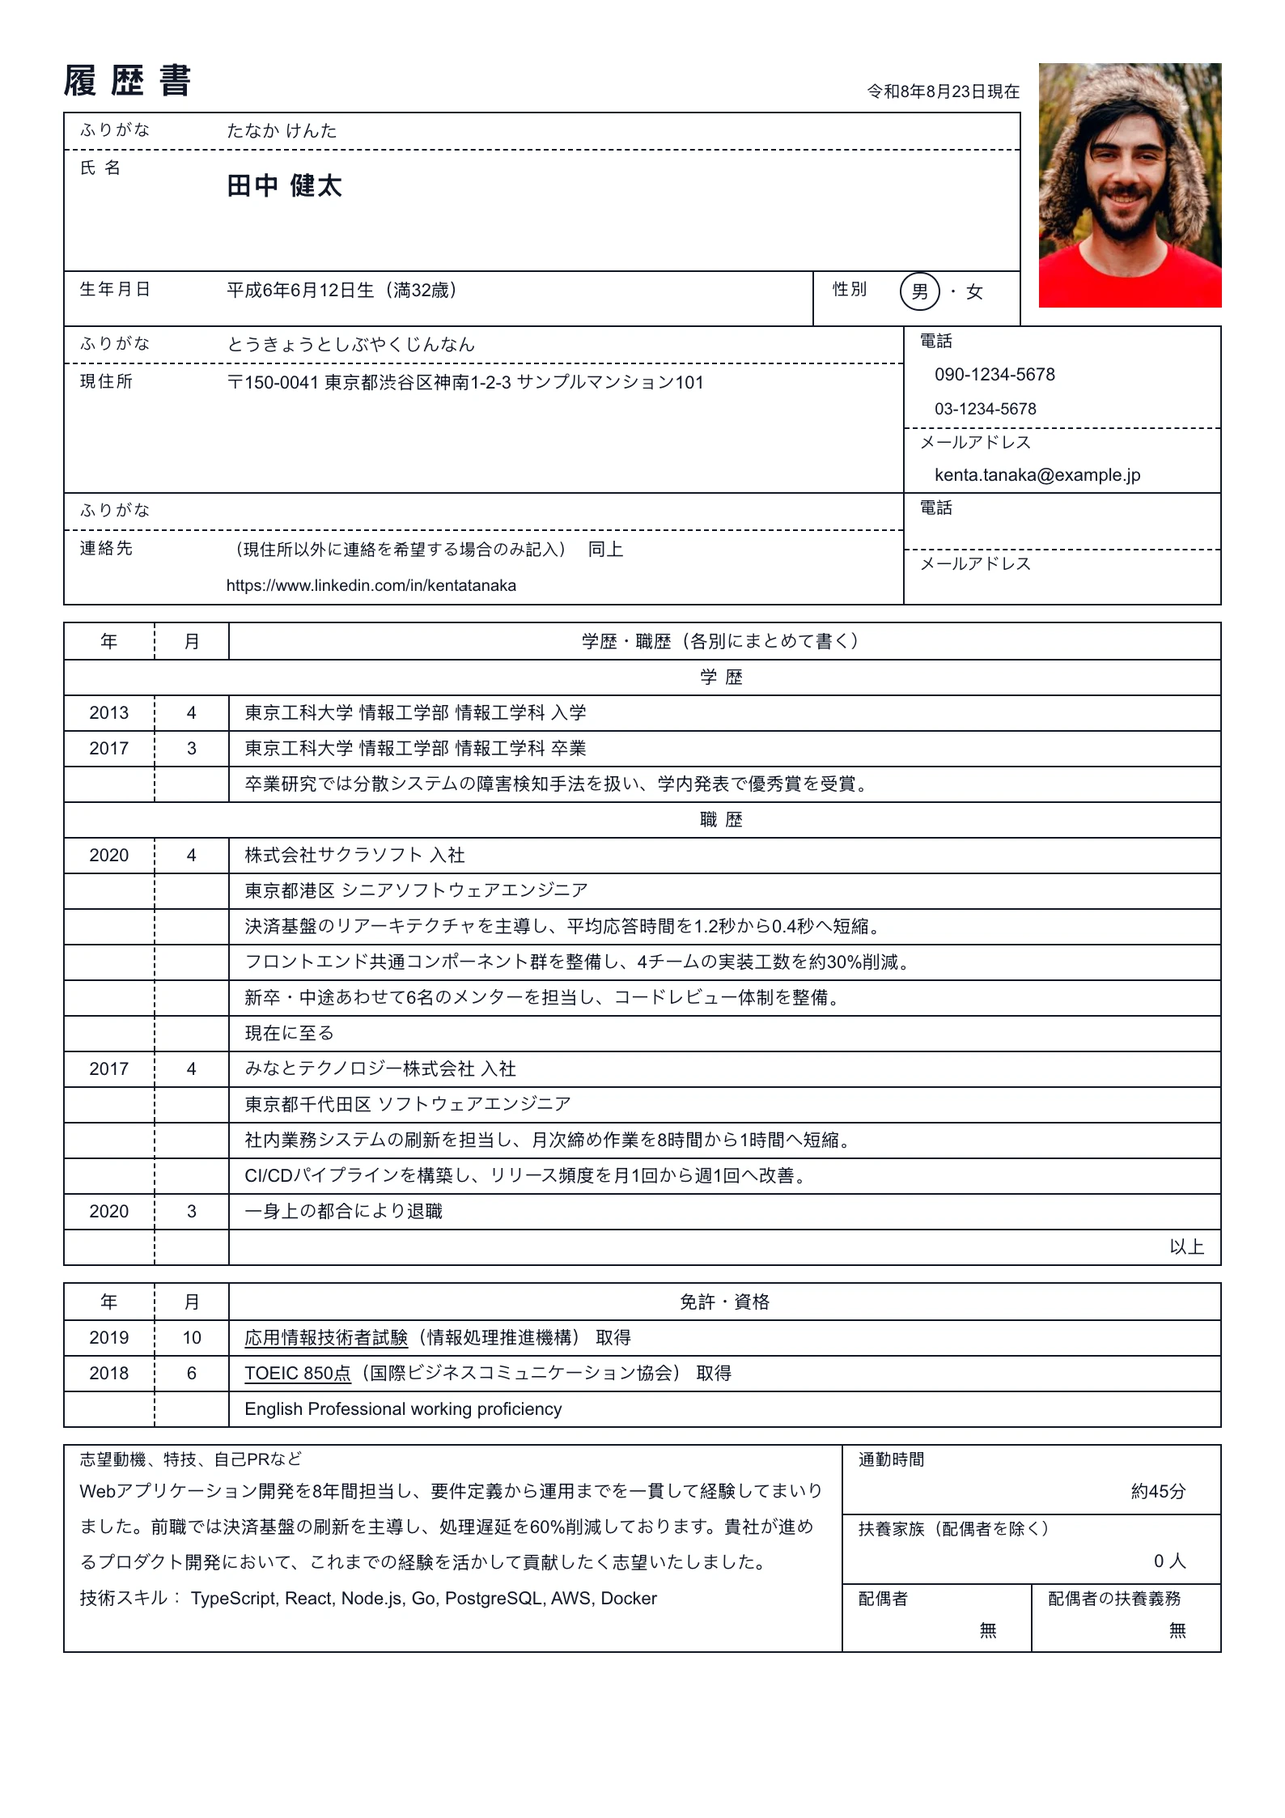
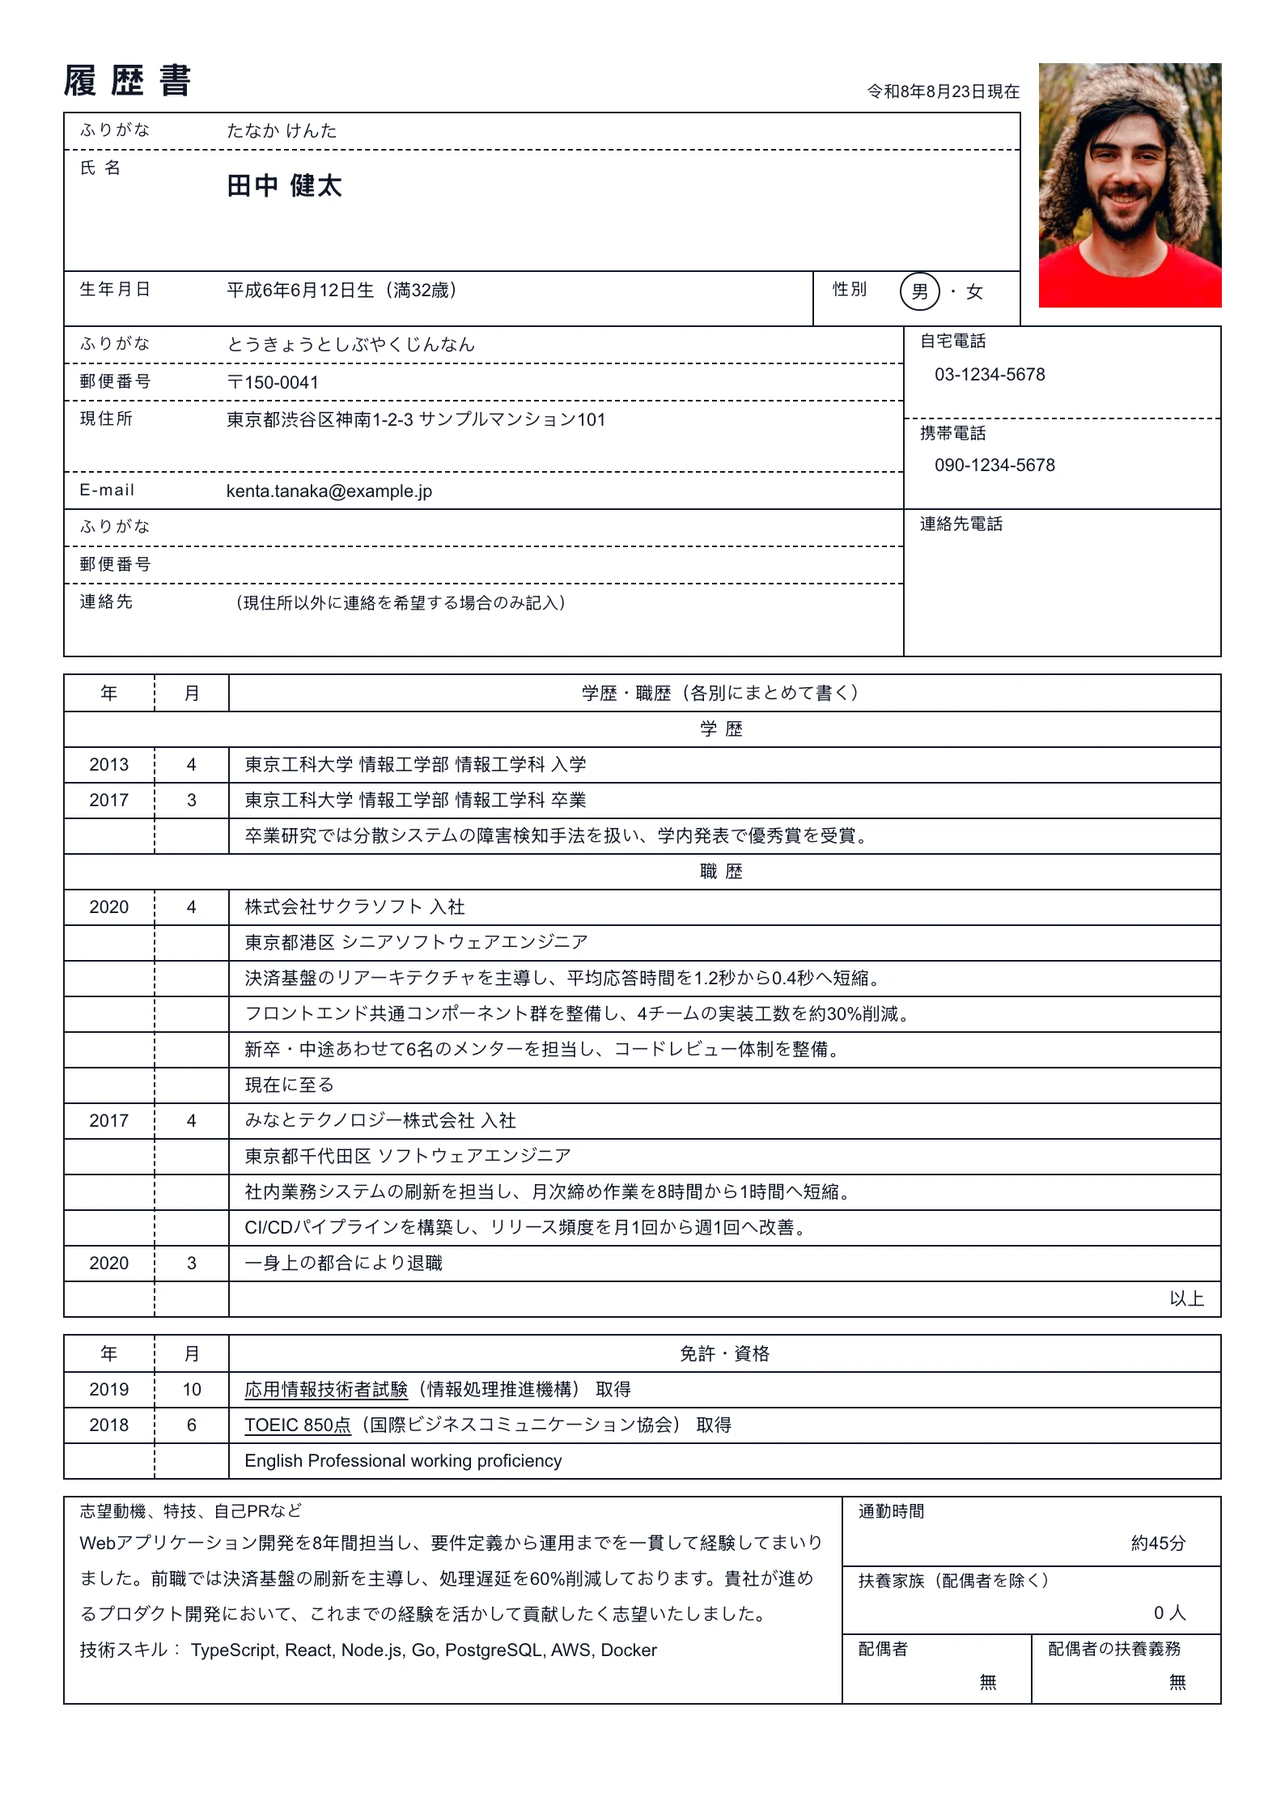
Match the rirekisho fields to the printed sheet, box for box
The field set was right — it is what rirekisho-online.com asks for — but the
labels were mine rather than the form's, which is why "Second address" read as
invented. It is 連絡先: the address post should go to when that is not 現住所,
and the sheet has a kana line, a postal code and a phone for it. Renamed to the
form's own words, and the postal code it was missing is added.

The 現住所 block now prints as the sheet does — ふりがな / 郵便番号 / 現住所 /
E-mail down the left, 自宅電話 and 携帯電話 down the right — instead of folding
the postal code into the address line and both numbers under one caption.
Profile links are no longer printed at all: the form has no row for a URL, and
the 連絡先 box is an address, not a place to park one.

性別, 配偶者 and 配偶者の扶養義務 are selects now (男/女, 有/無). They take one
of two answers, so a text box invited "male" or "yes" into a form that prints
neither.

diff --git a/src/features/resume-editor/preview/layouts/rirekisho/header.tsx b/src/features/resume-editor/preview/layouts/rirekisho/header.tsx
@@ -2,7 +2,6 @@ import { differenceInYears, isValid, parseISO } from "date-fns";
 import type { ReactNode } from "react";
 
 import { parseDayMonthYear } from "@/features/resume-editor/domain/month-year";
-import { compactJoin } from "@/features/resume-editor/preview/helpers/string";
 import { WrapOnSpace } from "@/features/resume-editor/preview/kit/wrap-on-space";
 import type { LayoutHeaderProps } from "@/features/resume-editor/preview/layout-types";
 import { cn } from "@/lib/utils";
@@ -44,6 +43,8 @@ function birthLine(birthDate: string | undefined, asOf: Date) {
   const age = differenceInYears(asOf, parsed);
   return age >= 0 ? `${born}生（満${age}歳）` : `${born}生`;
 }
+
+const postal = (value: string | undefined) => (value ? `〒${value}` : "");
 
 /** One ruled line of the identity block: a label cell, then its value. */
 function Line({
@@ -112,11 +113,6 @@ export function RirekishoHeader({ context }: LayoutHeaderProps) {
   // panel; absent on a draft that has never been on this layout.
   const extras = profile.extras ?? {};
   const asOf = parseISO(updatedAt);
-  const address = compactJoin([
-    extras.postalCode ? `〒${extras.postalCode}` : "",
-    profile.location,
-  ]);
-  const links = context.contactItems.filter((item) => item.kind === "link");
 
   return (
     <header className={`${styles.header} layout-header`} data-layout="rirekisho">
@@ -182,50 +178,50 @@ export function RirekishoHeader({ context }: LayoutHeaderProps) {
         </div>
       </div>
 
+      {/* 現住所: kana, postal code, address and e-mail down the left; the two
+          phone numbers the form asks for down the right. */}
       <div className="rirekisho-contact">
         <div className="rirekisho-contact-main">
           <Line label="ふりがな" className="rirekisho-line-dashed">
             {extras.addressReading}
           </Line>
-          <Line label="現住所" className="rirekisho-address-line">
-            {address}
+          <Line label="郵便番号" className="rirekisho-line-dashed">
+            {postal(extras.postalCode)}
           </Line>
+          <Line
+            label="現住所"
+            className="rirekisho-line-dashed rirekisho-address-line"
+          >
+            {profile.location}
+          </Line>
+          <Line label="E-mail">{profile.email}</Line>
         </div>
         <div className="rirekisho-contact-side">
-          <Stacked label="電話" className="rirekisho-line-dashed">
-            {profile.phone}
-            {extras.homePhone ? (
-              <span className="rirekisho-link">{extras.homePhone}</span>
-            ) : null}
+          <Stacked label="自宅電話" className="rirekisho-line-dashed">
+            {extras.homePhone}
           </Stacked>
-          <Stacked label="メールアドレス">{profile.email}</Stacked>
+          <Stacked label="携帯電話">{profile.phone}</Stacked>
         </div>
       </div>
 
+      {/* 連絡先 — filled in only when post should go somewhere other than 現住所. */}
       <div className="rirekisho-contact">
         <div className="rirekisho-contact-main">
           <Line label="ふりがな" className="rirekisho-line-dashed">
             {extras.contactAddressReading}
+          </Line>
+          <Line label="郵便番号" className="rirekisho-line-dashed">
+            {postal(extras.contactPostalCode)}
           </Line>
           <Line label="連絡先" className="rirekisho-address-line">
             <span className="rirekisho-note">
               （現住所以外に連絡を希望する場合のみ記入）
             </span>
             {extras.contactAddress}
-            {/* The form has no row for a portfolio or profile URL, and this box
-                is the one place a second point of contact belongs. */}
-            {links.map((item) => (
-              <span key={item.value} className="rirekisho-link">
-                {item.value}
-              </span>
-            ))}
           </Line>
         </div>
         <div className="rirekisho-contact-side">
-          <Stacked label="電話" className="rirekisho-line-dashed">
-            {extras.contactPhone}
-          </Stacked>
-          <Stacked label="メールアドレス" />
+          <Stacked label="連絡先電話">{extras.contactPhone}</Stacked>
         </div>
       </div>
     </header>

diff --git a/src/features/resume-editor/domain/presentation/layout-section-rules.ts b/src/features/resume-editor/domain/presentation/layout-section-rules.ts
@@ -31,7 +31,9 @@ export type LayoutExtraField = {
    *  sample value in one box and a label in the next is what made the pair of
    *  有 / 無 fields indistinguishable. */
   label: string;
-  type?: "text" | "date" | "textarea";
+  type?: "text" | "date" | "select" | "textarea";
+  /** The answers, for `type: "select"`. A blank option is added for clearing. */
+  options?: ReadonlyArray<string>;
   /** A leading glyph, where one reinforces scanning; the date picker draws its
    *  own calendar. */
   icon?: LayoutExtraFieldIcon;
@@ -84,9 +86,12 @@ const layoutSectionRules: Partial<Record<PdfLayoutId, LayoutSectionRules>> = {
       description:
         "The boxes the 履歴書 form prints that a resume has no field for. Every one is optional; blank prints an empty box, exactly like the paper form.",
       fields: [
+        // The 履歴書's own boxes, in the order the sheet prints them. The
+        // address, e-mail and mobile number are the Profile's — only what the
+        // form asks for beyond a résumé is here.
         {
           key: "nameReading",
-          label: "Name reading (ふりがな)",
+          label: "Name in kana (ふりがな)",
           icon: "reading",
           fullWidth: true,
         },
@@ -96,7 +101,19 @@ const layoutSectionRules: Partial<Record<PdfLayoutId, LayoutSectionRules>> = {
           type: "date",
           autoComplete: "bday",
         },
-        { key: "gender", label: "Gender (性別)", icon: "gender" },
+        {
+          key: "gender",
+          label: "Gender (性別)",
+          type: "select",
+          options: ["男", "女"],
+          icon: "gender",
+        },
+        {
+          key: "addressReading",
+          label: "Address in kana (ふりがな)",
+          icon: "reading",
+          fullWidth: true,
+        },
         {
           key: "postalCode",
           label: "Postal code (郵便番号)",
@@ -104,35 +121,45 @@ const layoutSectionRules: Partial<Record<PdfLayoutId, LayoutSectionRules>> = {
           autoComplete: "postal-code",
         },
         { key: "homePhone", label: "Home phone (自宅電話)", icon: "phone" },
+        // 連絡先 — the second address the form asks for, and only when post
+        // should go somewhere other than 現住所 (a student's family home, say).
         {
-          key: "addressReading",
-          label: "Address reading (ふりがな)",
+          key: "contactAddressReading",
+          label: "Contact address in kana (ふりがな)",
           icon: "reading",
           fullWidth: true,
         },
         {
+          key: "contactPostalCode",
+          label: "Contact postal code (郵便番号)",
+          icon: "postal",
+        },
+        { key: "contactPhone", label: "Contact phone (連絡先電話)", icon: "phone" },
+        {
           key: "contactAddress",
-          label: "Second address (連絡先)",
+          label: "Contact address (連絡先)",
           icon: "address",
           fullWidth: true,
         },
-        {
-          key: "contactAddressReading",
-          label: "Second address reading (ふりがな)",
-          icon: "reading",
-        },
-        { key: "contactPhone", label: "Second phone (連絡先電話)", icon: "phone" },
-        { key: "commuteTime", label: "Commute (通勤時間)", icon: "time" },
+        { key: "commuteTime", label: "Commute time (通勤時間)", icon: "time" },
         { key: "dependents", label: "Dependents (扶養家族数)", icon: "people" },
-        { key: "spouse", label: "Spouse (配偶者)", icon: "spouse" },
+        {
+          key: "spouse",
+          label: "Spouse (配偶者)",
+          type: "select",
+          options: ["有", "無"],
+          icon: "spouse",
+        },
         {
           key: "spouseSupport",
-          label: "Supporting a spouse (配偶者の扶養義務)",
+          label: "Spousal support (配偶者の扶養義務)",
+          type: "select",
+          options: ["有", "無"],
           icon: "spouse",
         },
         {
           key: "requests",
-          label: "Requests to the employer (本人希望記入欄)",
+          label: "Requests (本人希望記入欄)",
           type: "textarea",
           fullWidth: true,
         },

diff --git a/src/features/resume-editor/forms/extra-fields-form.tsx b/src/features/resume-editor/forms/extra-fields-form.tsx
@@ -26,7 +26,16 @@ import {
   type LayoutExtraFieldIcon,
 } from "@/features/resume-editor/domain/presentation/layout-section-rules";
 import type { PdfLayoutId } from "@/features/resume-editor/domain/presentation/pdf-presentation";
+import {
+  Select,
+  SelectContent,
+  SelectGroup,
+  SelectItem,
+  SelectTrigger,
+  SelectValue,
+} from "@/components/ui/select";
 import { Textarea } from "@/components/ui/textarea";
+import { FIELD_CONTROL_CLASS } from "@/features/resume-editor/forms/fields/field-control";
 import { FieldLabelText } from "@/features/resume-editor/forms/fields/field-label-text";
 import { MonthYearPicker } from "@/features/resume-editor/forms/fields/month-year-picker";
 import { ProfileTextField } from "@/features/resume-editor/forms/profile-fields";
@@ -113,6 +122,53 @@ export function ExtraFieldsForm({
                           })
                         }
                       />
+                    )}
+                  />
+                  <FieldError errors={[state.error]} />
+                </FieldContent>
+              </Field>
+            );
+          }
+
+          if (field.type === "select") {
+            return (
+              <Field
+                key={field.key}
+                data-invalid={state.invalid || undefined}
+                className={field.fullWidth ? "col-span-full" : undefined}
+              >
+                <FieldContent>
+                  <Controller
+                    control={control}
+                    name={name}
+                    render={({ field: bound }: { field: { value?: string } }) => (
+                      <Select
+                        value={bound.value ?? ""}
+                        onValueChange={(next: string | null) =>
+                          setValue(name, next ?? "", {
+                            shouldDirty: true,
+                            shouldValidate: formState.isSubmitted,
+                          })
+                        }
+                      >
+                        <SelectTrigger
+                          id={id}
+                          className={FIELD_CONTROL_CLASS}
+                          aria-label={field.label}
+                          aria-invalid={state.invalid || undefined}
+                        >
+                          <SelectValue placeholder={field.label} />
+                        </SelectTrigger>
+                        <SelectContent>
+                          <SelectGroup>
+                            {(field.options ?? []).map((option) => (
+                              <SelectItem key={option} value={option}>
+                                {option}
+                              </SelectItem>
+                            ))}
+                          </SelectGroup>
+                        </SelectContent>
+                      </Select>
                     )}
                   />
                   <FieldError errors={[state.error]} />

diff --git a/src/features/resume-editor/editor/sections/section-body.test.tsx b/src/features/resume-editor/editor/sections/section-body.test.tsx
@@ -35,7 +35,7 @@ describe("the layout-declared extras panel", () => {
     // they belong to the one layout that prints them, not to everyone's Profile.
     renderPanel(rirekishoDraft(), "profile");
 
-    expect(screen.queryByLabelText(/name reading/i)).toBeNull();
+    expect(screen.queryByLabelText(/name in kana/i)).toBeNull();
     expect(screen.queryByLabelText(/date of birth/i)).toBeNull();
   });
 
@@ -43,7 +43,7 @@ describe("the layout-declared extras panel", () => {
     const user = userEvent.setup();
     const onSave = renderPanel(rirekishoDraft(), "extras");
 
-    await user.type(screen.getByLabelText(/name reading/i), "たなか けんた");
+    await user.type(screen.getByLabelText(/name in kana/i), "たなか けんた");
     await act(() => new Promise((r) => setTimeout(r, 700)));
 
     expect(onSave.mock.calls.at(-1)?.[0].extras?.nameReading).toBe(
@@ -56,6 +56,6 @@ describe("the layout-declared extras panel", () => {
     renderPanel(createDefaultResumeDraft(), "extras");
 
     expect(screen.getByText(/needs no extra details/i)).toBeInTheDocument();
-    expect(screen.queryByLabelText(/name reading/i)).toBeNull();
+    expect(screen.queryByLabelText(/name in kana/i)).toBeNull();
   });
 });

diff --git a/src/features/resume-editor/preview/layouts/rirekisho/styles.module.css b/src/features/resume-editor/preview/layouts/rirekisho/styles.module.css
@@ -127,20 +127,20 @@
   border-bottom: var(--rirekisho-dash);
 }
 
-.header :global(.rirekisho-name-line),
-.header :global(.rirekisho-address-line) {
+.header :global(.rirekisho-name-line) {
   min-height: calc(var(--rirekisho-row) * 2);
   border-bottom: var(--rirekisho-line);
+}
+
+/* The address gets two lines' room; long ones simply take more. */
+.header :global(.rirekisho-address-line) {
+  min-height: calc(var(--rirekisho-row) * 2);
 }
 
 /* The name row absorbs whatever the photo makes the block taller by, so the
    birth row sits on the bottom edge and its 性別 divider reaches it. */
 .header :global(.rirekisho-name-line) {
   flex: 1;
-}
-
-.header :global(.rirekisho-address-line) {
-  border-bottom: 0;
 }
 
 .header :global(.rirekisho-birth-line) {

diff --git a/scripts/personas.ts b/scripts/personas.ts
@@ -1301,7 +1301,6 @@ export const PINNED_PERSONAS: ReadonlyArray<Persona> = [{
     birthDate: "12 Jun 1994",
     gender: "男",
     homePhone: "03-1234-5678",
-    contactAddress: "同上",
     commuteTime: "約45分",
     dependents: "0",
     spouse: "無",

diff --git a/src/features/resume-editor/preview/layouts/rirekisho/README.md b/src/features/resume-editor/preview/layouts/rirekisho/README.md
@@ -18,7 +18,7 @@ decoration — they are the format, so nothing here has gaps between sections.
 - **Title row** — 履歴書 at `0.85 × h1` with `0.35em` tracking, and the draft's `updatedAt` at the right *of the table column*, beside the photo rather than above it: the photo hangs from the top edge of the sheet. Rendered 令和8年8月23日現在 — `Intl` with the `ja-JP-u-ca-japanese` calendar owns the era table, so the next era needs no edit.
 - **Identity box** — ふりがな over 氏名 (two rows tall), then 生年月日 and 性別 sharing a row. 生年月日 reads 平成6年6月12日生（満32歳）; the age counts to the document's own as-of date, never to `new Date()`, so a render is reproducible. 性別 prints 男・女 with the answer **ringed**, the way the paper form is filled in.
 - **Photo box** — 30mm at `var(--resume-photo-aspect, 3 / 4)` = 30×40mm, hanging from the top of the sheet with the same air below it as beside it. The dashes are the **placeholder**: an empty box is dashed and carries the printed sheet's instructions (写真をはる位置 …), a filled one is just the photo, unframed.
-- **Contact boxes** — ふりがな / 現住所 with 〒 on the left, 電話 and メールアドレス stacked on the right; then the same shape for 連絡先. Profile links print in the 連絡先 box — the form has no row for a URL, and that box is where a second point of contact belongs.
+- **Contact boxes** — 現住所 runs ふりがな / 郵便番号 / 現住所 / E-mail down the left with 自宅電話 and 携帯電話 down the right; 連絡先 repeats the shape for the address post should go to instead, when that differs. Profile links are **not** printed: the form has no row for a URL, and inventing one is not the format.
 - **学歴・職歴 table** — one table captioned 年 / 月 / 学歴・職歴（各別にまとめて書く）, with 学歴 and 職歴 as centred label rows over their runs. Work rows read `会社名 入社`, the role, the description, then `一身上の都合により退職` or a dateless `現在に至る`. Education rows read `入学` / `卒業`. Closed by a right-aligned 以上.
 - **年 / 月** — split from the stored `MMM yyyy` via `parseMonthYear`; a date the picker never produced (`current`, free text) leaves both cells blank rather than guessing. The rule between 年 and 月 is dashed, the one before the entry solid — the form's own hierarchy.
 - **免許・資格 table** — certifications and languages share it; the caption row names it, so their own headings are hidden.
@@ -32,13 +32,17 @@ decoration — they are the format, so nothing here has gaps between sections.
 All three knobs in `domain/presentation/layout-section-rules.ts`, and this is the
 only layout that uses any of them:
 
-- **Extra fields** — the boxes a resume has no field for: both ふりがな, 生年月日,
-  性別, 〒, 自宅電話, the whole 連絡先 block, 通勤時間, 扶養家族, 配偶者,
-  配偶者の扶養義務 and 本人希望記入欄. All read from the free `profile.extras`
-  map and edited in the pinned **Rirekisho details** row, which appears only
-  while this layout is selected. Values survive a switch away. The date field
-  uses the same picker every dated section uses (`precision="day"`, storing
-  `"12 Jun 1994"`); the header also parses ISO, for drafts written before it.
+- **Extra fields** — exactly the boxes the printed sheet asks for and a résumé
+  has no field for: ふりがな for the name and both addresses, 生年月日, 性別,
+  郵便番号 (×2), 自宅電話, 連絡先 and 連絡先電話, 通勤時間, 扶養家族数, 配偶者,
+  配偶者の扶養義務, and 本人希望記入欄. The address, e-mail and mobile number
+  come from the Profile — nothing is duplicated here. 性別, 配偶者 and
+  配偶者の扶養義務 are selects (男/女, 有/無); the rest are text, one date and
+  one multi-line box. All read from the free `profile.extras` map and are edited
+  in the pinned **Rirekisho details** row, which appears only while this layout
+  is selected. Values survive a switch away. The date field uses the same picker
+  every dated section uses (`precision="day"`, storing `"12 Jun 1994"`); the
+  header also parses ISO, for drafts written before it.
 - **Fixed titles** — 学歴, 職歴, 免許・資格, 志望動機, 特技, 語学. A recruiter
   looks for these exact words, so they outrank a rename and the rename control
   steps aside. The sidebar reads 職歴 (Work Experience); the paper prints 職歴
